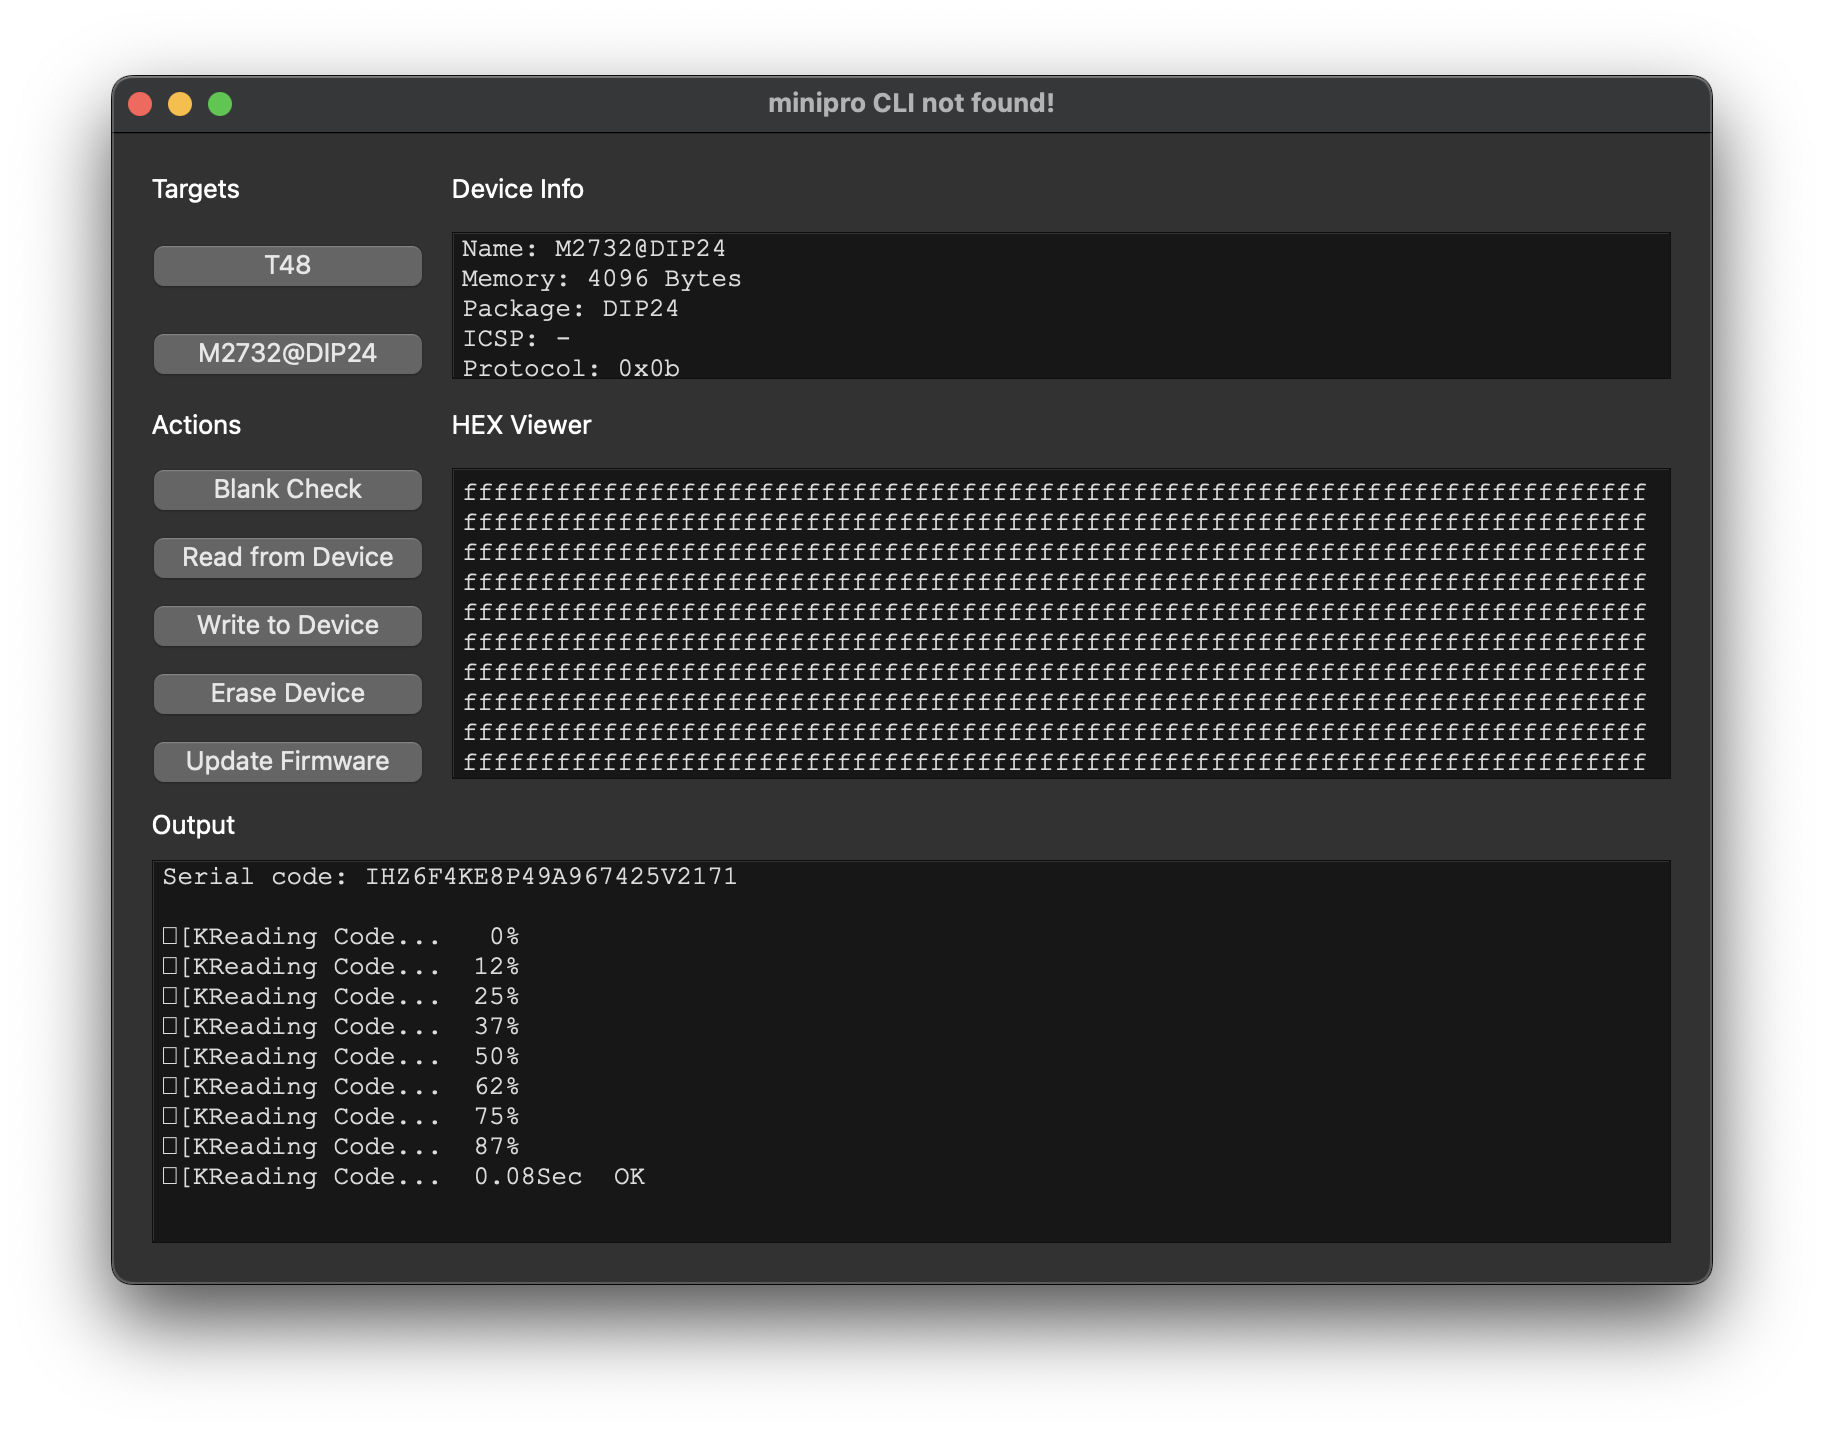
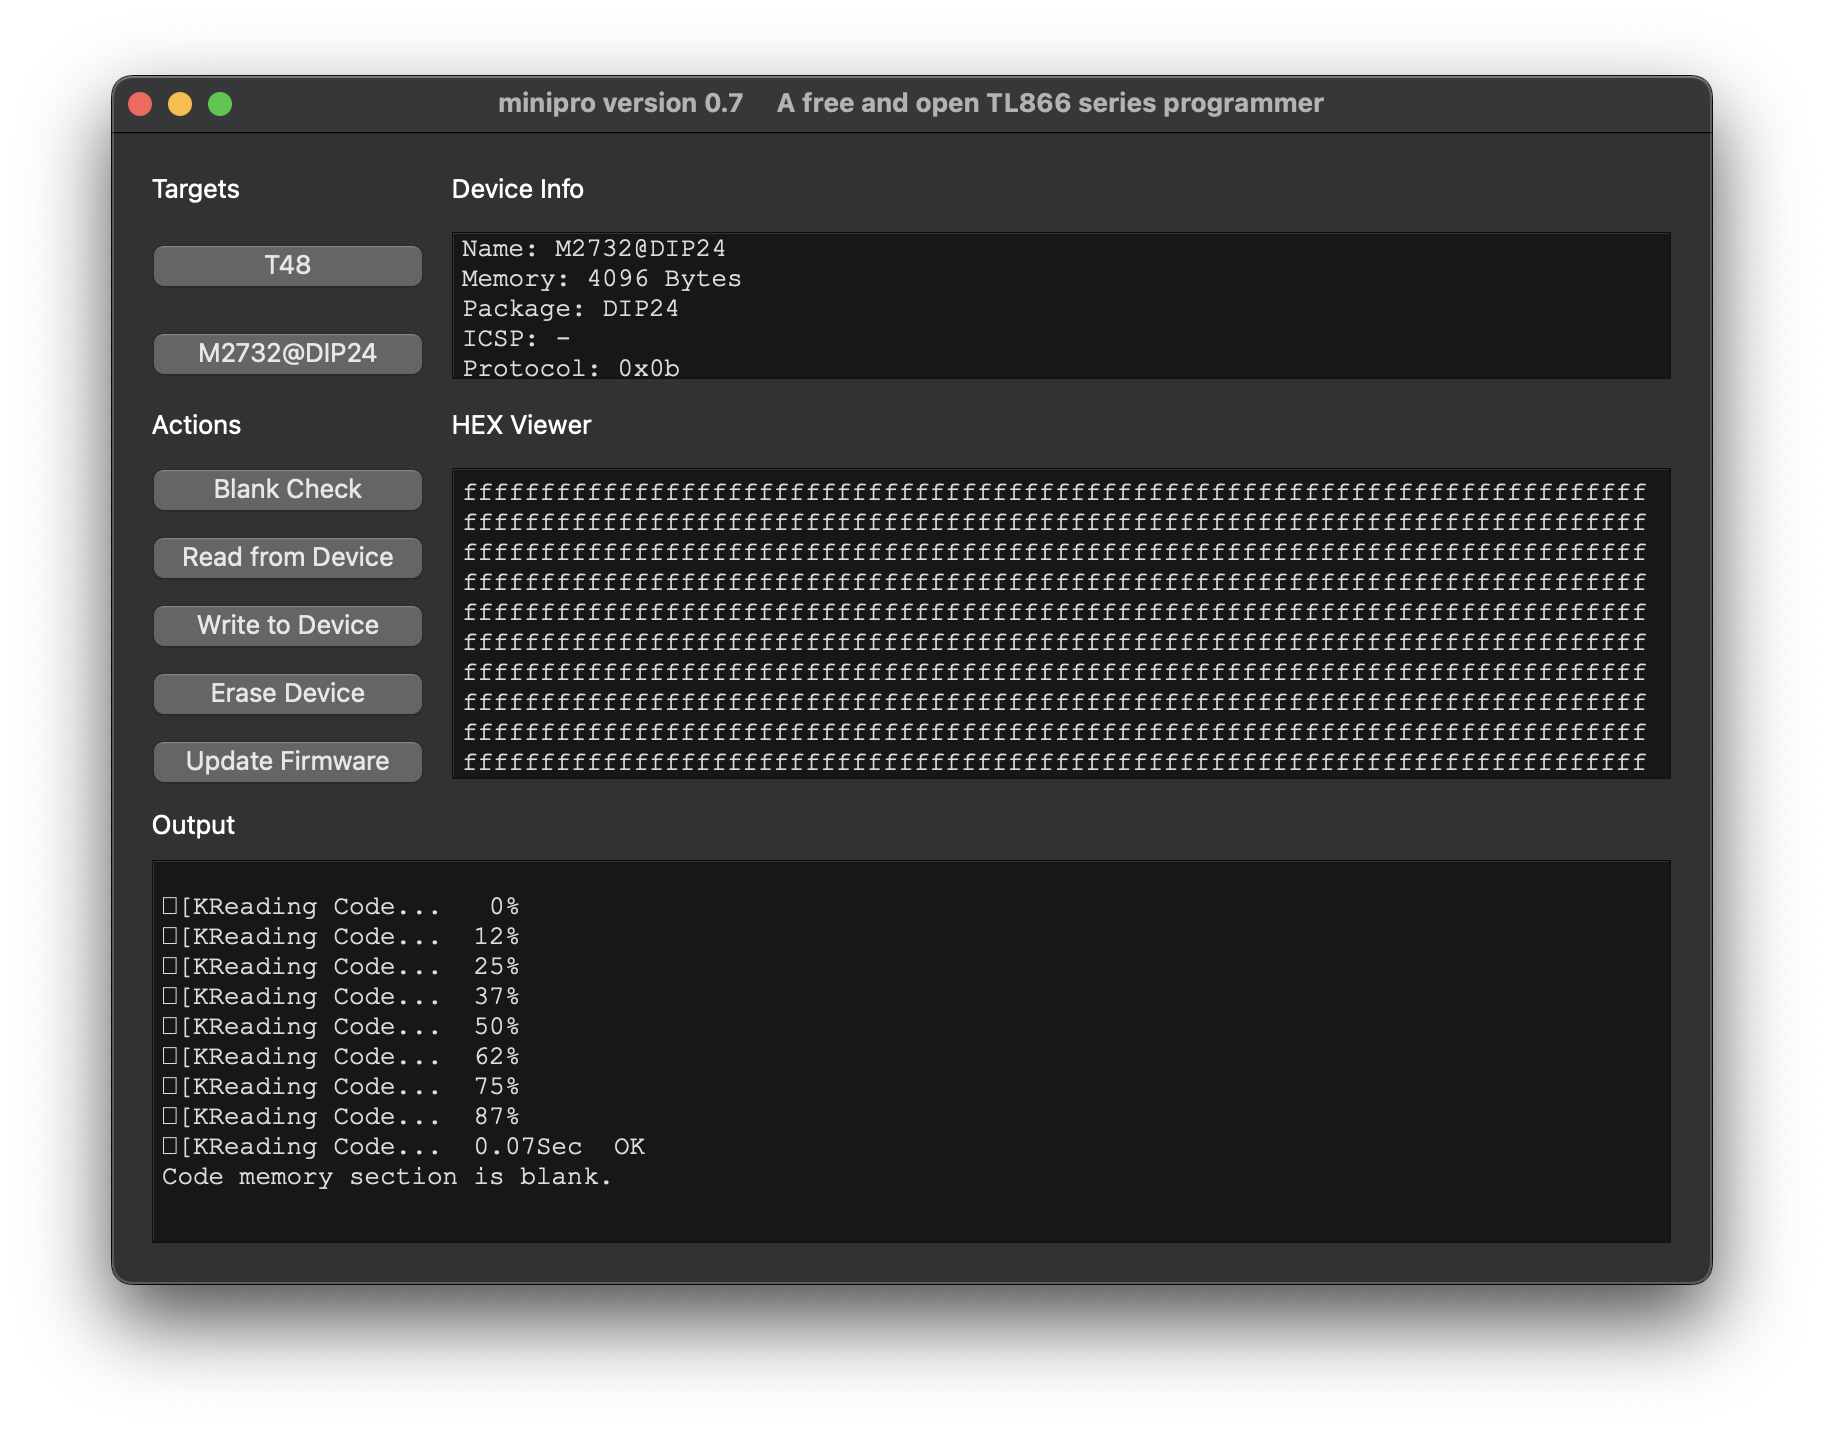
Update to actions - working now

Changed region(s): [[0.0938, 0.5838, 0.3438, 0.8296], [0.2812, 0.0615, 0.7188, 0.0922], [0.0938, 0.6145, 0.2188, 0.6453]]

diff --git a/src/MainWindow.cpp b/src/MainWindow.cpp
@@ -110,9 +110,8 @@ QString MainWindow::run_process(QPlainTextEdit &status_text, const QStringList &
 void MainWindow::check_for_minipro(){
     QStringList arguments;
     arguments << "--version";
-    QString initial_check_error = run_process(*status_view, arguments, "stdout");
-    if (initial_check_error.length() > 0) {
-        if (initial_check_error.contains("minipro version")) {
+    QString initial_check_error = run_process(*status_view, arguments);
+    if (initial_check_error.length() > 0 && initial_check_error.contains("minipro version")) {
             QRegularExpression re("minipro version.*\\n");
             QRegularExpressionMatch match = re.match(initial_check_error);
             if (match.hasMatch()) {
@@ -123,7 +122,6 @@ void MainWindow::check_for_minipro(){
             else {
                 button_programmer->setDisabled(true);
             }
-        }
     }
 }
 
